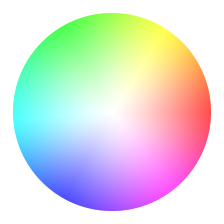
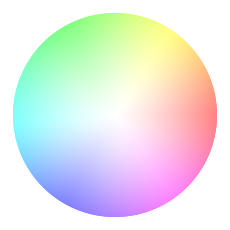
Add sliders to move measurement area and change HSV color wheel to better correlate with mouse movement

diff --git a/DisplayCAL/wxVisualWhitepointEditor.py b/DisplayCAL/wxVisualWhitepointEditor.py
@@ -11,9 +11,9 @@ import colorsys
 import sys
 from math import pi, sin, cos, sqrt, atan2
 
-from wxfixes import wx, wx_Panel
+from wxfixes import wx, wx_Panel, GenBitmapButton as BitmapButton
 from config import (defaults, getbitmap, getcfg, get_default_dpi,
-                    get_icon_bundle, initcfg, setcfg)
+                    get_icon_bundle, geticon, initcfg, setcfg)
 from meta import name as appname
 from wxMeasureFrame import get_default_size
 import localization as lang
@@ -533,7 +533,7 @@ class HSVWheel(BasePyControl):
         :param `pt`: an instance of :class:`Point`.
         """
 
-        return Distance(pt, self._mainFrame._centre) <= (self._bitmap.Size[0] - s(12)) / 2
+        return Distance(pt, self._mainFrame._centre) <= (self._bitmap.Size[0]) / 2
 
 
     def TrackPoint(self, pt):
@@ -555,7 +555,7 @@ class HSVWheel(BasePyControl):
         if colour.h < 0:
             colour.h += 360
 
-        colour.s = int(round(Distance(pt, mainFrame._centre)*255.0/((self._bitmap.Size[0] - s(12)) / 2)*0.125))
+        colour.s = int(round(Distance(pt, mainFrame._centre)*255.0/((self._bitmap.Size[0] - s(12)) / 2)*0.2))
         if colour.s > 255:
             colour.s = 255
 
@@ -581,7 +581,7 @@ class BaseLineCtrl(wx.PyControl):
         :param `parent`: the control parent window.
         """
 
-        wx.PyControl.__init__(self, parent, size=(s(20), s(100)),
+        wx.PyControl.__init__(self, parent, size=(s(20), s(102)),
                               style=wx.NO_BORDER)
         self.SetBackgroundStyle(wx.BG_STYLE_CUSTOM)    
 
@@ -894,11 +894,33 @@ class VisualWhitepointEditor(wx.Frame):
         self.brightnessSpin = wx.SpinCtrl(self.mainPanel, -1, "", min=0, max=255,
                                           style=wx.SP_ARROW_KEYS)
         self.reset_btn = wx.Button(self.mainPanel, -1, lang.getstr("reset"))
-        scale = float(getcfg("dimensions.measureframe").split(",")[2])
-        self.area_slider = wx.Slider(self.mainPanel, -1, min(scale * 100, 1500),
-                                     100, 1500)
+        x, y, scale = (float(v) for v in getcfg("dimensions.measureframe.whitepoint.visual_editor").split(","))
+        self.area_size_slider = wx.Slider(self.mainPanel, -1,
+                                          min(scale * 100, 1500), 100, 1500)
+        self.zoomnormalbutton = BitmapButton(self.mainPanel, -1, 
+                                             geticon(16, "zoom-original"), 
+                                             style=wx.NO_BORDER)
+        self.Bind(wx.EVT_BUTTON, self.zoomnormal_handler, self.zoomnormalbutton)
+        self.zoomnormalbutton.SetToolTipString(lang.getstr("measureframe."
+                                                           "zoomnormal"))
+        self.area_x_slider = wx.Slider(self.mainPanel, -1,
+                                       int(round(x * 1000)), 0, 1000)
+        self.center_x_button = BitmapButton(self.mainPanel, -1, 
+                                            geticon(16, "window-center"), 
+                                            style=wx.NO_BORDER)
+        self.Bind(wx.EVT_BUTTON, self.center_x_handler, self.center_x_button)
+        self.center_x_button.SetToolTipString(lang.getstr("measureframe.center"))
+        self.area_y_slider = wx.Slider(self.mainPanel, -1,
+                                       int(round(y * 1000)), 0, 1000)
+        self.center_y_button = BitmapButton(self.mainPanel, -1, 
+                                            geticon(16, "window-center"), 
+                                            style=wx.NO_BORDER)
+        self.Bind(wx.EVT_BUTTON, self.center_y_handler, self.center_y_button)
+        self.center_y_button.SetToolTipString(lang.getstr("measureframe.center"))
         self.measure_btn = wx.Button(self.mainPanel, -1, lang.getstr("measure"),
                                      name="visual_whitepoint_editor_measure_btn")
+        
+        self.Bind(wx.EVT_SIZE, self.area_handler)
         
         self.SetProperties()
         self.DoLayout()
@@ -910,10 +932,12 @@ class VisualWhitepointEditor(wx.Frame):
             spin.Bind(wx.EVT_SPINCTRL, self.OnSpinCtrl)
 
         self.reset_btn.Bind(wx.EVT_BUTTON, self.reset_handler)
-        self.area_slider.Bind(wx.EVT_SLIDER, self.area_slider_handler)
+        self.area_size_slider.Bind(wx.EVT_SLIDER, self.area_handler)
+        self.area_x_slider.Bind(wx.EVT_SLIDER, self.area_handler)
+        self.area_y_slider.Bind(wx.EVT_SLIDER, self.area_handler)
 
         self.Bind(wx.EVT_CLOSE, self.OnCloseWindow)
-        self.Bind(wx.EVT_CHAR_HOOK, self.OnKeyUp)
+        self.Bind(wx.EVT_CHAR_HOOK, self.OnKeyDown)
 
         self.Centre(wx.BOTH)
 
@@ -930,7 +954,6 @@ class VisualWhitepointEditor(wx.Frame):
         
     def SetProperties(self):
         """ Sets some initial properties for :class:`VisualWhitepointEditor` (sizes, values). """
-        self.area_slider_handler(None)
         min_w = s(60)
         self.redSpin.SetMinSize((min_w, -1))
         self.greenSpin.SetMinSize((min_w, -1))
@@ -953,10 +976,6 @@ class VisualWhitepointEditor(wx.Frame):
         hsvGridSizer = wx.FlexGridSizer(2, 3, 4, margin)
         rgbValueSizer = wx.BoxSizer(wx.HORIZONTAL)
         rgbGridSizer = wx.FlexGridSizer(2, 3, 4, margin)
-        panelSizer = wx.FlexGridSizer(1, 1, 0, 0)
-        panelSizer.AddGrowableRow(0)
-        panelSizer.AddGrowableCol(0)
-        self.bgPanel.Sizer = panelSizer
         
         hsvSizer = wx.BoxSizer(wx.HORIZONTAL)
         rgbSizer = wx.BoxSizer(wx.VERTICAL)
@@ -967,7 +986,6 @@ class VisualWhitepointEditor(wx.Frame):
         hsvSizer.Add(self.bgBrightCtrl, 0, wx.RIGHT|wx.TOP|wx.BOTTOM, margin + s(5) + 2)
         mainSizer.Add(hsvSizer, 0, wx.ALL|wx.EXPAND, margin)
         
-        panelSizer.Add(self.newColourPanel, 0, wx.ALIGN_CENTER|wx.ALL, margin)
         redLabel = wx.StaticText(self.mainPanel, -1, lang.getstr("red"))
         rgbGridSizer.Add(redLabel, 0)
         greenLabel = wx.StaticText(self.mainPanel, -1, lang.getstr("green"))
@@ -994,9 +1012,26 @@ class VisualWhitepointEditor(wx.Frame):
         area_slider_label = wx.StaticText(self.mainPanel, -1,
                                           lang.getstr("measureframe.title"))
         mainSizer.Add(area_slider_label, 0, wx.TOP | wx.LEFT, margin)
-        mainSizer.Add((1, 4))
-        mainSizer.Add(self.area_slider, 0, wx.BOTTOM | wx.LEFT | wx.RIGHT |
-                                           wx.EXPAND, margin)
+        mainSizer.Add((1, 8))
+        slider_sizer = wx.FlexGridSizer(3, 3, s(4), margin)
+        slider_sizer.AddGrowableCol(1)
+        mainSizer.Add(slider_sizer, 0, wx.EXPAND | wx.LEFT | wx.RIGHT |
+                                       wx.BOTTOM, margin)
+        slider_sizer.Add(wx.StaticText(self.mainPanel, -1, lang.getstr("size")),
+                         0, wx.ALIGN_CENTER_VERTICAL)
+        slider_sizer.Add(self.area_size_slider, 0, wx.ALIGN_CENTER_VERTICAL |
+                                                   wx.EXPAND)
+        slider_sizer.Add(self.zoomnormalbutton, 0, wx.ALIGN_CENTER_VERTICAL)
+        slider_sizer.Add(wx.StaticText(self.mainPanel, -1, "X"),
+                         0, wx.ALIGN_CENTER_VERTICAL)
+        slider_sizer.Add(self.area_x_slider, 0, wx.ALIGN_CENTER_VERTICAL |
+                                                wx.EXPAND)
+        slider_sizer.Add(self.center_x_button, 0, wx.ALIGN_CENTER_VERTICAL)
+        slider_sizer.Add(wx.StaticText(self.mainPanel, -1, "Y"),
+                         0, wx.ALIGN_CENTER_VERTICAL)
+        slider_sizer.Add(self.area_y_slider, 0, wx.ALIGN_CENTER_VERTICAL |
+                                                wx.EXPAND)
+        slider_sizer.Add(self.center_y_button, 0, wx.ALIGN_CENTER_VERTICAL)
         mainSizer.Add(self.measure_btn, 0, wx.ALL | wx.ALIGN_CENTER, margin)
 
         self.mainPanel.SetAutoLayout(True)
@@ -1101,7 +1136,7 @@ class VisualWhitepointEditor(wx.Frame):
         self.Destroy()
     
     
-    def OnKeyUp(self, event):
+    def OnKeyDown(self, event):
         """
         Handles the ``wx.EVT_CHAR_HOOK`` event for :class:`VisualWhitepointEditor`.
         
@@ -1110,8 +1145,29 @@ class VisualWhitepointEditor(wx.Frame):
 
         if event.GetKeyCode() == wx.WXK_ESCAPE:
             self.Close()
-
-        event.Skip()
+        #elif event.KeyCode in (wx.WXK_LEFT, wx.WXK_RIGHT, wx.WXK_UP,
+                               #wx.WXK_DOWN):
+            #self._colour.h += {wx.WXK_LEFT: 1,
+                     #wx.WXK_RIGHT: -1,
+                     #wx.WXK_UP: 0,
+                     #wx.WXK_DOWN: 0}[event.KeyCode]
+            #if self._colour.h > 359:
+                #self._colour.h = 0
+            #elif self._colour.h < 0:
+                #self._colour.h = 359
+            #self._colour.s += {wx.WXK_LEFT: 0,
+                     #wx.WXK_RIGHT: 0,
+                     #wx.WXK_UP: 1,
+                     #wx.WXK_DOWN: -1}[event.KeyCode]
+            #if self._colour.s > 255:
+                #self._colour.s = 255
+            #elif self._colour.s < 0:
+                #self._colour.s = 0
+            #print self._colour.h, self._colour.s
+            #self._colour.ToRGB()
+            #self.DrawAll()
+        else:
+            event.Skip()
     
 
     def PtFromAngle(self, angle, sat, center):
@@ -1125,7 +1181,8 @@ class VisualWhitepointEditor(wx.Frame):
         """
 
         angle = deg2rad(angle)
-        sat = sat*((self.hsvBitmap._bitmap.Size[0] - s(12)) / 2)/255.0
+        sat = min(sat*((self.hsvBitmap._bitmap.Size[0] - s(12)) / 2)/51.0,
+                  ((self.hsvBitmap._bitmap.Size[0] - s(12)) / 2))
 
         x = sat*cos(angle)
         y = sat*sin(angle)
@@ -1237,10 +1294,30 @@ class VisualWhitepointEditor(wx.Frame):
         return self.Pulse(msg)
 
 
-    def area_slider_handler(self, event):
-        scale = self.area_slider.Value / 100.0
-        self.newColourPanel.MinSize = (int(round(get_default_size() * scale)), ) * 2
-        self.Layout()
+    def area_handler(self, event=None):
+        scale = self.area_size_slider.Value / 100.0
+        x = self.area_x_slider.Value / 1000.0
+        y = self.area_y_slider.Value / 1000.0
+        w, h = (int(round(get_default_size() * scale)), ) * 2
+        self.bgPanel.MinSize = -1, -1
+        self.newColourPanel.Size = w, h
+        self.bgPanel.MinSize = w + s(24), h + s(24)
+        bg_w, bg_h = (float(v) for v in self.bgPanel.Size)
+        self.newColourPanel.Position = ((bg_w - (w)) * x), ((bg_h - (h)) * y)
+        if event:
+            event.Skip()
+            if event.GetEventType() == wx.EVT_SIZE.evtType[0]:
+                wx.CallAfter(self.area_handler)
+
+
+    def center_x_handler(self, event):
+        self.area_x_slider.SetValue(500)
+        self.area_handler()
+
+
+    def center_y_handler(self, event):
+        self.area_y_slider.SetValue(500)
+        self.area_handler()
 
 
     def flush(self):
@@ -1271,10 +1348,21 @@ class VisualWhitepointEditor(wx.Frame):
             value = getattr(self._colour, attribute)
             setcfg("whitepoint.visual_editor." + attribute, value)
         setcfg("whitepoint.visual_editor.bg_v", self._bgcolour.v)
+        x, y = (ctrl.Value / 1000.0 for ctrl in (self.area_x_slider,
+                                                 self.area_y_slider))
+        scale = self.area_size_slider.Value / 100.0
+        setcfg("dimensions.measureframe.whitepoint.visual_editor",
+               "%f,%f,%f" % (x, y, scale))
 
 
     def write(self, txt):
         pass
+
+
+    def zoomnormal_handler(self, event):
+        scale = float(defaults["dimensions.measureframe.whitepoint.visual_editor"].split(",")[2])
+        self.area_size_slider.SetValue(int(round(scale * 100)))
+        self.area_handler()
 
 
 if __name__ == "__main__":

diff --git a/DisplayCAL/config.py b/DisplayCAL/config.py
@@ -817,6 +817,7 @@ defaults = {
 																	  version),
 	"dimensions.measureframe": "0.5,0.5,1.5",
 	"dimensions.measureframe.unzoomed": "0.5,0.5,1.5",
+	"dimensions.measureframe.whitepoint.visual_editor": "0.5,0.5,1.5",
 	"display.number": 1,
 	"display_lut.link": 1,
 	"display_lut.number": 1,
